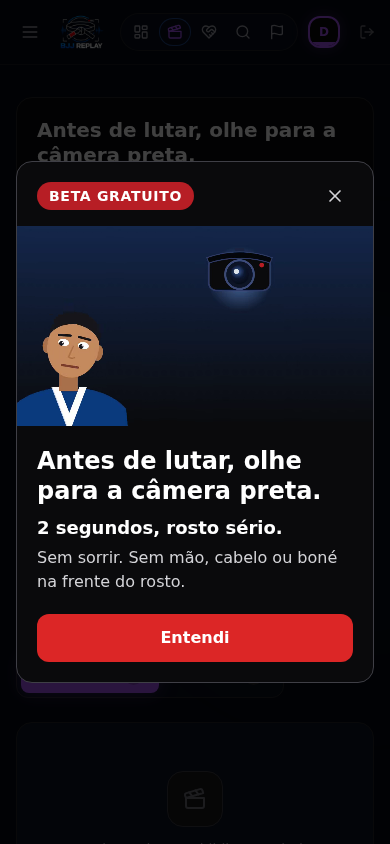
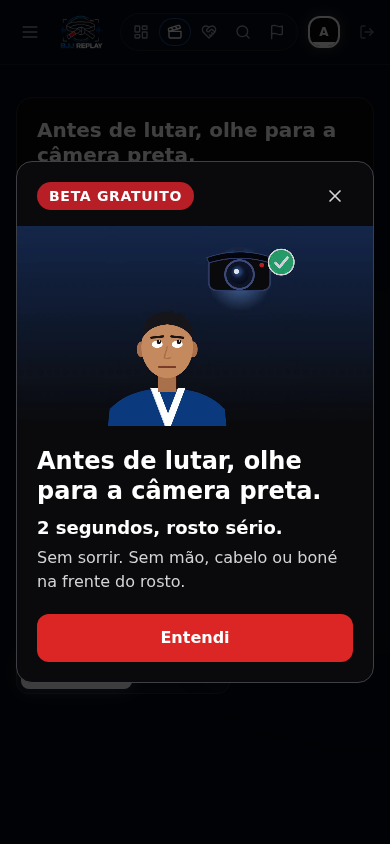
lider: boas-vindas do aviso da câmera só com BETA_GRATUITO ligado (o modal diz 'Beta gratuito'); print do celular no quadro final com o ✓ (o antigo pegou o atleta cortado na borda); __pycache__ fora do git

diff --git a/front/components/beta/AvisoCameraPreta.tsx b/front/components/beta/AvisoCameraPreta.tsx
@@ -2,6 +2,7 @@
 
 import { useEffect, useRef, useState } from 'react';
 import { X } from 'lucide-react';
+import { BETA_GRATUITO } from '@/lib/config/beta';
 
 const TITULO = 'Antes de lutar, olhe para a câmera preta.';
 const LINHA_2 = '2 segundos, rosto sério.';
@@ -94,7 +95,7 @@ export function AvisoCameraPretaBoasVindas() {
     }
   };
 
-  if (!aberto) return null;
+  if (!BETA_GRATUITO || !aberto) return null;
   return (
     <div className="fixed inset-0 z-50 flex items-center justify-center overflow-y-auto bg-black/75 p-4" onClick={fechar}>
       <div
